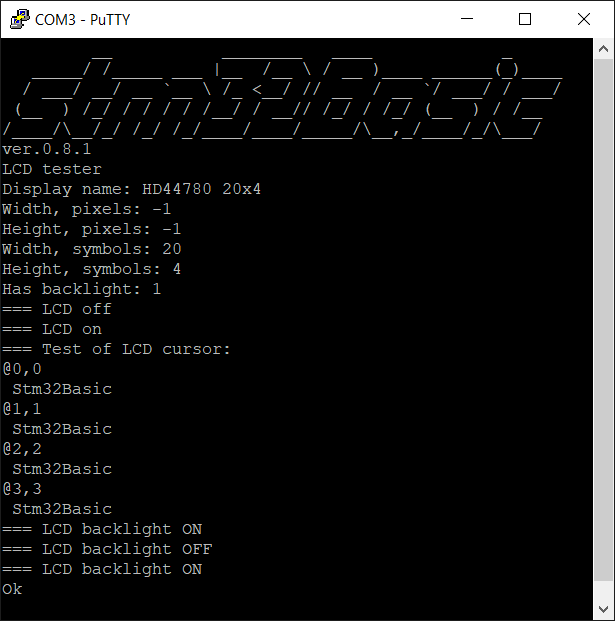
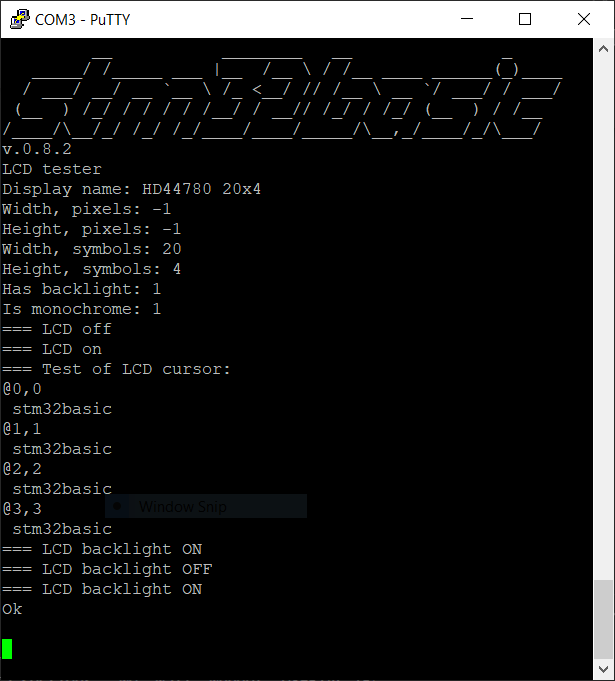
Pre release 0.8.2

Changed region(s): [[0.0, 0.0, 0.9577, 0.9791], [0.9577, 0.0612, 1.0, 0.8567], [0.9577, 0.9179, 1.0, 1.0]]

diff --git a/src/utility.c b/src/utility.c
@@ -23,9 +23,9 @@ static volatile uint32_t systick_cnt;
 
 #ifdef SERIAL_TRACES_ENABLED
 const char gimmick[] =
-"         __           ________   ____             _     \r\n"\
-"   _____/ /_____ ___ |__  /__ \\ / __ )____ ______(_)____\r\n"\
-"  / ___/ __/ __ `__ \\ /_ <__/ // __  / __ `/ ___/ / ___/\r\n"\
+"         __           ________   __               _     \r\n"\
+"   _____/ /_____ ___ |__  /__ \\ / /__ ____ ______(_)____\r\n"\
+"  / ___/ __/ __ `__ \\ /_ <__/ // /__ \\ __ `/ ___/ / ___/\r\n"\
 " (__  ) /_/ / / / / /__/ / __// /_/ / /_/ (__  ) / /__  \r\n"\
 "/____/\\__/_/ /_/ /_/____/____/_____/\\__,_/____/_/\\___/\r\n";
 #endif

diff --git a/lcd2004_test_app/lcd2004_test.c b/lcd2004_test_app/lcd2004_test.c
@@ -29,11 +29,10 @@ Foundation, Inc., 51 Franklin Street, Fifth Floor, Boston, MA  02110-1301  USA
 
 DisplayCapability dispCapability;
 const char applicationName[] = "LCD tester";
-const char teststr[] = " Stm32Basic";
+const char teststr[] = " stm32basic";
 
 int main(void) {
     clock_setup();
-
     usart_setup();
 
     comm_puts(gimmick);

diff --git a/src/host.c b/src/host.c
@@ -79,8 +79,6 @@ void host_init(int buzzerPin)
     host_sleep(100);
 #endif
 
-    i2c_setup();
-
     display_get_capability_p(&dispCapability);
 
     DEBUG_SERIAL_PRINT("Display name: %s", dispCapability.displayName);
